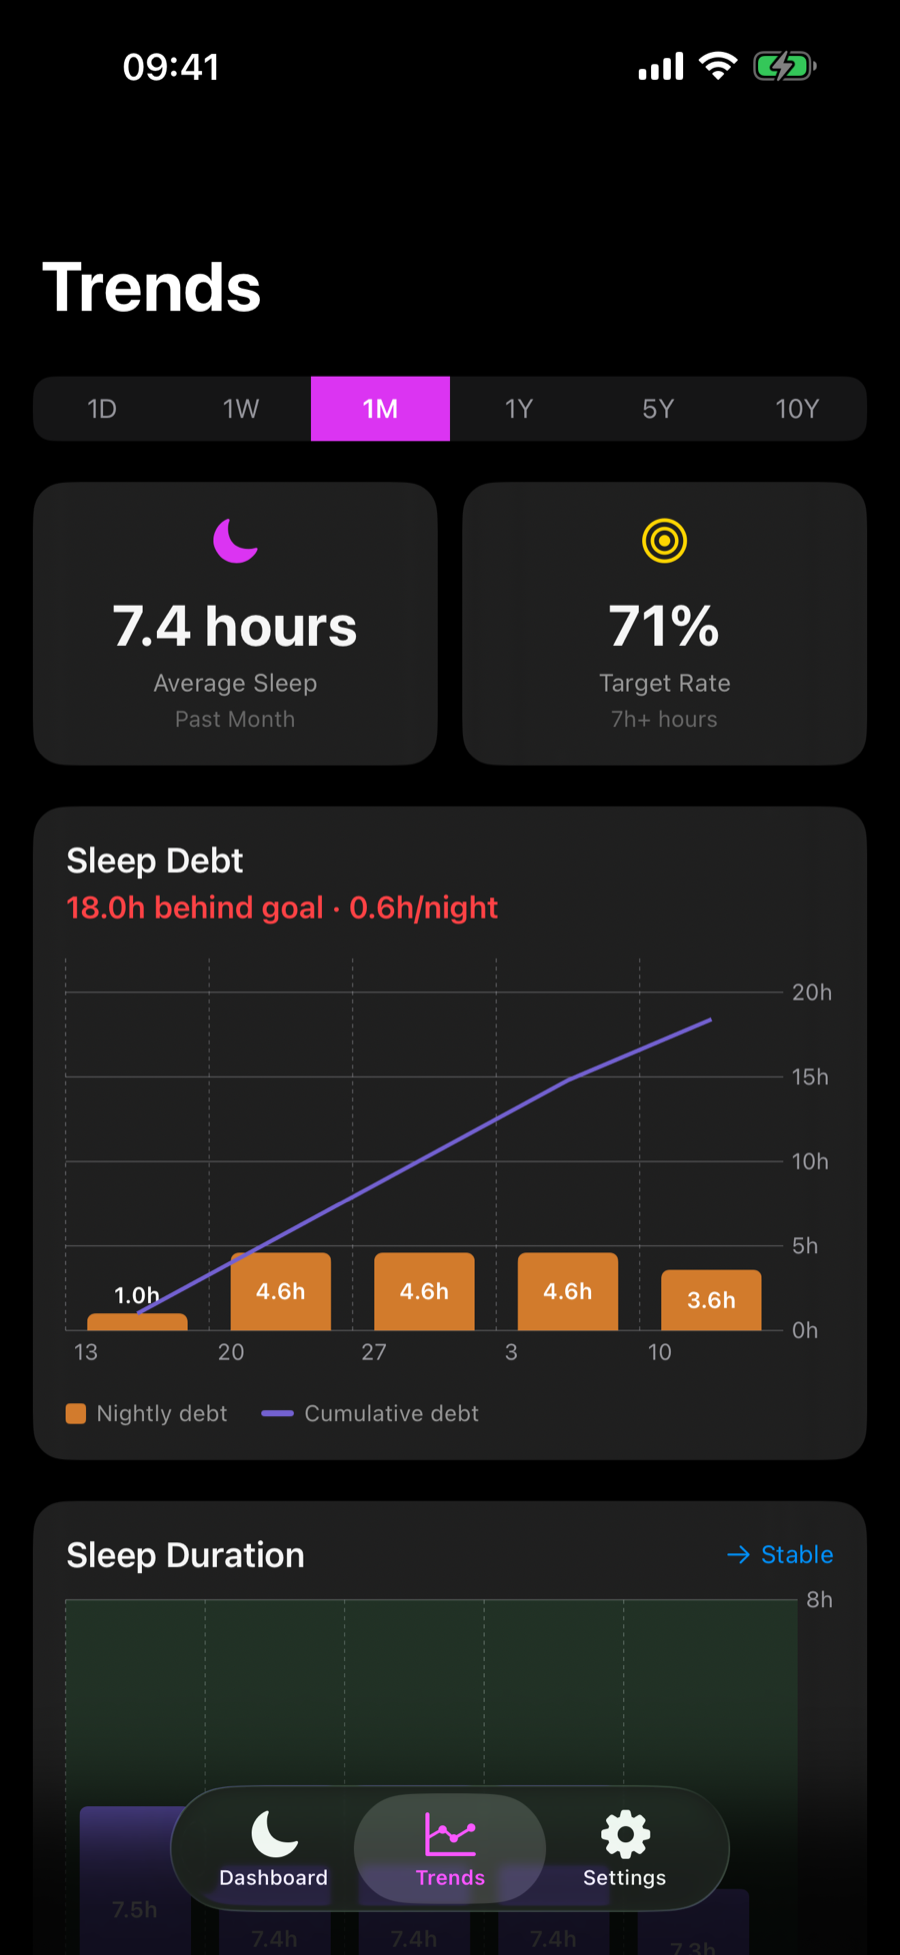
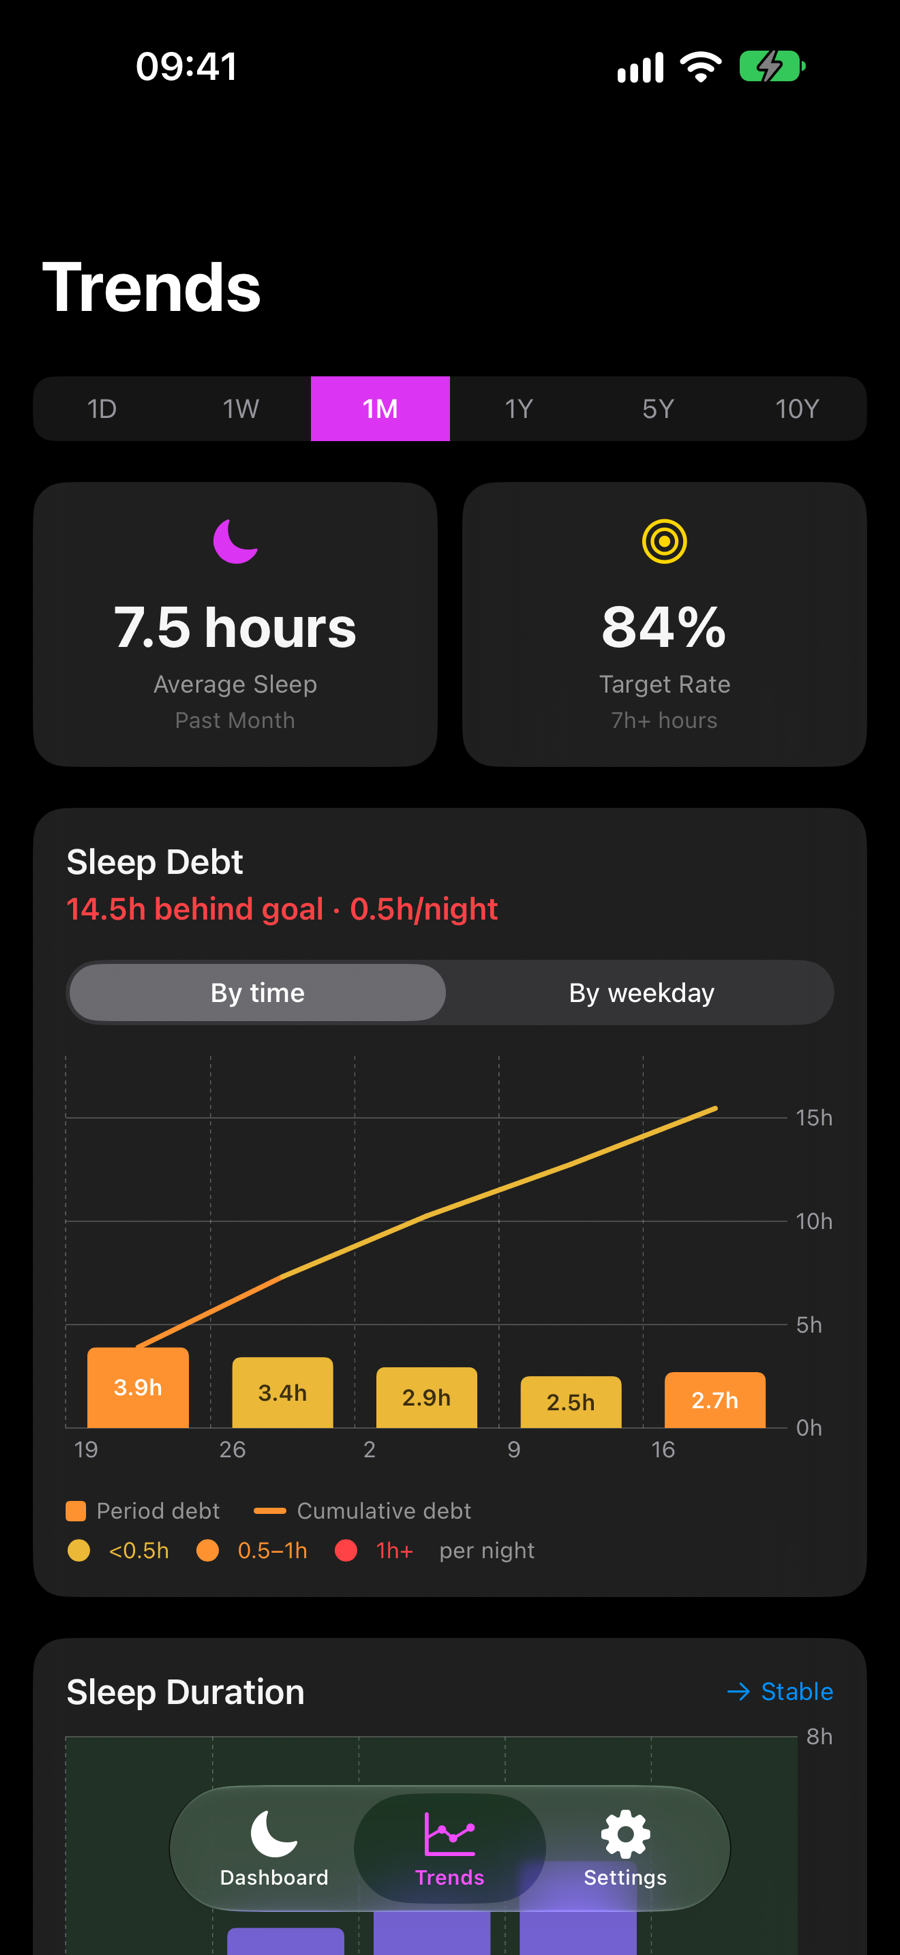
Update README and marketing website for Somnus 1.2.0
Regenerate site screenshots, describe the severity colours and correct
the monthly deficit and colour descriptions that no longer matched.

diff --git a/website/index.html b/website/index.html
@@ -48,7 +48,7 @@
         <p class="availability">Now on the App Store for iPhone and iPad, using Apple Watch sleep data</p>
         <ul class="badge-row hero-badges" aria-label="App details">
           <li class="badge"><span class="badge-key">Platform</span><span class="badge-value is-purple">iOS 17+</span></li>
-          <li class="badge"><span class="badge-key">Version</span><span class="badge-value">1.1.0</span></li>
+          <li class="badge"><span class="badge-key">Version</span><span class="badge-value">1.2.0</span></li>
           <li class="badge"><span class="badge-key">App Store</span><span class="badge-value is-green">Available</span></li>
           <li class="badge"><span class="badge-key">Licence</span><span class="badge-value is-green">MIT</span></li>
         </ul>
@@ -140,23 +140,23 @@
 
         <article class="story-card">
           <div class="story-image">
-            <img src="assets/somnus-debt-week.png" width="900" height="1955" loading="lazy" alt="Somnus weekly Trends screen with nightly sleep-debt bars and a cumulative-debt line reaching 4.5 hours.">
+            <img src="assets/somnus-debt-week.png" width="900" height="1955" loading="lazy" alt="Somnus weekly Trends screen with colour-coded nightly sleep-debt bars and a cumulative-debt line reaching 4.5 hours.">
           </div>
           <div class="story-copy">
             <span class="story-number">2</span>
             <h3>See every contribution</h3>
-            <p>Orange bars show each night’s shortfall. The purple line turns separate misses into one running total.</p>
+            <p>Bars turn yellow, orange, or red as a night’s shortfall grows. The line turns separate misses into one running total, coloured by your average night.</p>
           </div>
         </article>
 
         <article class="story-card">
           <div class="story-image">
-            <img src="assets/somnus-debt-month.png" width="900" height="1955" loading="lazy" alt="Somnus monthly Trends screen showing 18 hours behind the sleep goal and a cumulative debt line.">
+            <img src="assets/somnus-debt-month.png" width="900" height="1955" loading="lazy" alt="Somnus monthly Trends screen showing 14.5 hours behind the sleep goal, colour-coded weekly debt bars, and a cumulative debt line.">
           </div>
           <div class="story-copy">
             <span class="story-number">3</span>
             <h3>Zoom out before you dismiss it</h3>
-            <p>A manageable nightly gap becomes an 18-hour monthly deficit. Somnus can scale the same view from a day to ten years.</p>
+            <p>A half-hour nightly gap becomes a 14.5-hour monthly deficit. Each week is coloured by its average night, so the scale never hides the pattern.</p>
           </div>
         </article>
       </div>
@@ -165,12 +165,13 @@
     <section class="section container" id="weekday-debt" aria-labelledby="weekday-debt-title">
       <div class="weekday-layout">
         <div class="weekday-copy">
-          <p class="eyebrow">New in 1.1.0</p>
+          <p class="eyebrow">Updated in 1.2.0</p>
           <h2 id="weekday-debt-title">Spot the nights that leave you short.</h2>
           <p>For monthly and longer views, switch Sleep Debt between <strong>By time</strong> and <strong>By weekday</strong> to uncover whether Mondays—or any other evening—are driving your deficit.</p>
           <ul class="weekday-points">
             <li><strong>Month view:</strong> Groups individual nights Monday–Sunday, oldest first, with dated nightly shortfalls and recording counts.</li>
             <li><strong>1Y, 5Y &amp; 10Y views:</strong> Compares average shortfall per recorded night across weekdays, with monthly or yearly drill-downs.</li>
+            <li><strong>Severity colours:</strong> Yellow under 0.5h, orange from 0.5–1h, and red for 1h or more per night, on every night, average, and drill-down.</li>
             <li><strong>Evening-based labels:</strong> Monday night includes Tuesday morning, while missing nights remain separate from recorded nights with zero shortfall.</li>
           </ul>
           <a class="demo-open-link" href="#demo">Try By weekday in the browser demo <span aria-hidden="true">↗</span></a>
@@ -179,7 +180,7 @@
         <div class="weekday-cards">
           <article class="story-card">
             <div class="story-image">
-              <img src="assets/somnus-weekday-month.png" width="900" height="1955" loading="lazy" alt="Somnus 1M Trends screen switched to By weekday, showing grouped Monday through Sunday shortfall bars and four dated Monday nights.">
+              <img src="assets/somnus-weekday-month.png" width="900" height="1955" loading="lazy" alt="Somnus 1M Trends screen switched to By weekday, showing colour-coded Monday through Sunday shortfall bars and five dated Monday nights.">
             </div>
             <div class="story-copy">
               <span class="story-number">1M</span>
@@ -190,7 +191,7 @@
 
           <article class="story-card">
             <div class="story-image">
-              <img src="assets/somnus-weekday-year.png" width="900" height="1955" loading="lazy" alt="Somnus 1Y Trends screen switched to By weekday, showing average shortfall per recorded night across weekdays and monthly averages for Monday nights.">
+              <img src="assets/somnus-weekday-year.png" width="900" height="1955" loading="lazy" alt="Somnus 1Y Trends screen switched to By weekday, showing colour-coded average shortfall per recorded night across weekdays and monthly averages for Monday nights.">
             </div>
             <div class="story-copy">
               <span class="story-number">1Y</span>
@@ -262,7 +263,7 @@
             <li class="badge"><span class="badge-key">Language</span><span class="badge-value is-swift">Swift 5.9</span></li>
             <li class="badge"><span class="badge-key">Licence</span><span class="badge-value is-green">MIT</span></li>
             <li class="badge"><span class="badge-key">App Store</span><span class="badge-value is-green">Available</span></li>
-            <li class="badge"><span class="badge-key">Version</span><span class="badge-value">1.1.0</span></li>
+            <li class="badge"><span class="badge-key">Version</span><span class="badge-value">1.2.0</span></li>
             <li class="badge"><span class="badge-key">Privacy</span><span class="badge-value is-green">100% on-device</span></li>
           </ul>
 

diff --git a/README.md b/README.md
@@ -16,7 +16,7 @@ A native iOS app that reads Apple Watch sleep data and turns it into a running v
 [![Swift Charts](https://img.shields.io/badge/Swift%20Charts-1B1926?style=flat-square&logo=apple&logoColor=2BD466)](https://developer.apple.com/documentation/charts)
 
 [![App Store](https://img.shields.io/badge/App%20Store-Available-2BD466?style=flat-square&logo=appstore&logoColor=white&labelColor=0B0B12)](https://apps.apple.com/app/id6812648966)
-[![Version](https://img.shields.io/badge/Version-1.1.0-8C77EF?style=flat-square&labelColor=0B0B12)](project.yml)
+[![Version](https://img.shields.io/badge/Version-1.2.0-8C77EF?style=flat-square&labelColor=0B0B12)](project.yml)
 [![License](https://img.shields.io/github/license/EMRahman/Somnus?style=flat-square&label=License&labelColor=0B0B12&color=2BD466)](LICENSE)
 [![Website](https://img.shields.io/github/actions/workflow/status/EMRahman/Somnus/pages.yml?style=flat-square&label=Website&logo=githubpages&logoColor=white&labelColor=0B0B12&color=2BD466)](https://emrahman.github.io/Somnus/)
 [![Codebase](https://img.shields.io/github/languages/top/EMRahman/Somnus?style=flat-square&label=Swift%20share&logo=swift&logoColor=white&labelColor=0B0B12&color=F05138)](https://github.com/EMRahman/Somnus)
@@ -34,7 +34,7 @@ A native iOS app that reads Apple Watch sleep data and turns it into a running v
 
 | Dashboard | Weekly debt | Monthly debt |
 |:---:|:---:|:---:|
-| <img src="website/assets/somnus-dashboard.png" alt="Somnus dashboard showing a 94 Excellent sleep score alongside 4.6 hours of accumulated debt" width="260"> | <img src="website/assets/somnus-debt-week.png" alt="Weekly Trends screen with nightly shortfall bars and a cumulative debt line reaching 4.5 hours" width="260"> | <img src="website/assets/somnus-debt-month.png" alt="Monthly Trends screen showing 18 hours behind the sleep goal" width="260"> |
+| <img src="website/assets/somnus-dashboard.png" alt="Somnus dashboard showing a 94 Excellent sleep score alongside 4.6 hours of accumulated debt" width="260"> | <img src="website/assets/somnus-debt-week.png" alt="Weekly Trends screen with nightly shortfall bars and a cumulative debt line reaching 4.5 hours" width="260"> | <img src="website/assets/somnus-debt-month.png" alt="Monthly Trends screen showing 14.5 hours behind the sleep goal" width="260"> |
 | A strong night and a growing deficit, side by side | Each night's shortfall, plus the running total | The same view, scaled out to a month |
 
 | Weekday debt (1M) | Weekday debt (1Y) |
@@ -73,13 +73,13 @@ The buildless demo lives in [`website/demo.html`](website/demo.html); see [`webs
 
 ### Sleep Debt Trends
 
-The primary Trends chart pairs each period's shortfall with a running cumulative-debt line. It also shows your net balance—whether you are behind or ahead of your goal—and your average nightly shortfall, making both the current debt and its direction visible.
+The primary Trends chart pairs each period's shortfall with a running cumulative-debt line. Since 1.2.0, bars are colour-coded by shortfall per night—yellow under 0.5h, orange 0.5–1h, red 1h+—with week, month, and year bars rated by their average night, and the cumulative line changes colour with the running average. It also shows your net balance—whether you are behind or ahead of your goal—and your average nightly shortfall, making both the current debt and its direction visible.
 
 Switch between six time horizons—Daily, Weekly, Monthly, Yearly, 5 Years, and 10 Years—to see whether debt is an isolated dip, a recurring pattern, or a deficit that has compounded over months or years. The same debt calculation is reused throughout the app, deduplicating fragmented sleep sessions and excluding nights with no recorded sleep so missing data does not become phantom debt.
 
 #### Weekday Breakdown (New in 1.1.0)
 
-For **1M and longer**, switch **By time / By weekday** inside Sleep Debt to spot recurring bad nights. The month view groups individual nights Monday–Sunday, oldest first; longer ranges compare average shortfall per recorded night. Select a weekday for its recording count and dated monthly values, monthly averages (1Y), or yearly averages (5Y/10Y). Night labels refer to their evening, so Monday night includes Tuesday morning. Missing nights remain distinct from recorded nights with zero shortfall.
+For **1M and longer**, switch **By time / By weekday** inside Sleep Debt to spot recurring bad nights. The month view groups individual nights Monday–Sunday, oldest first; longer ranges compare average shortfall per recorded night. Select a weekday for its recording count and dated monthly values, monthly averages (1Y), or yearly averages (5Y/10Y). Night labels refer to their evening, so Monday night includes Tuesday morning. Missing nights remain distinct from recorded nights with zero shortfall. Nights, weekday averages, and drill-downs use the same severity colours, and the selected weekday is highlighted.
 
 ### Supporting Sleep Charts
 
